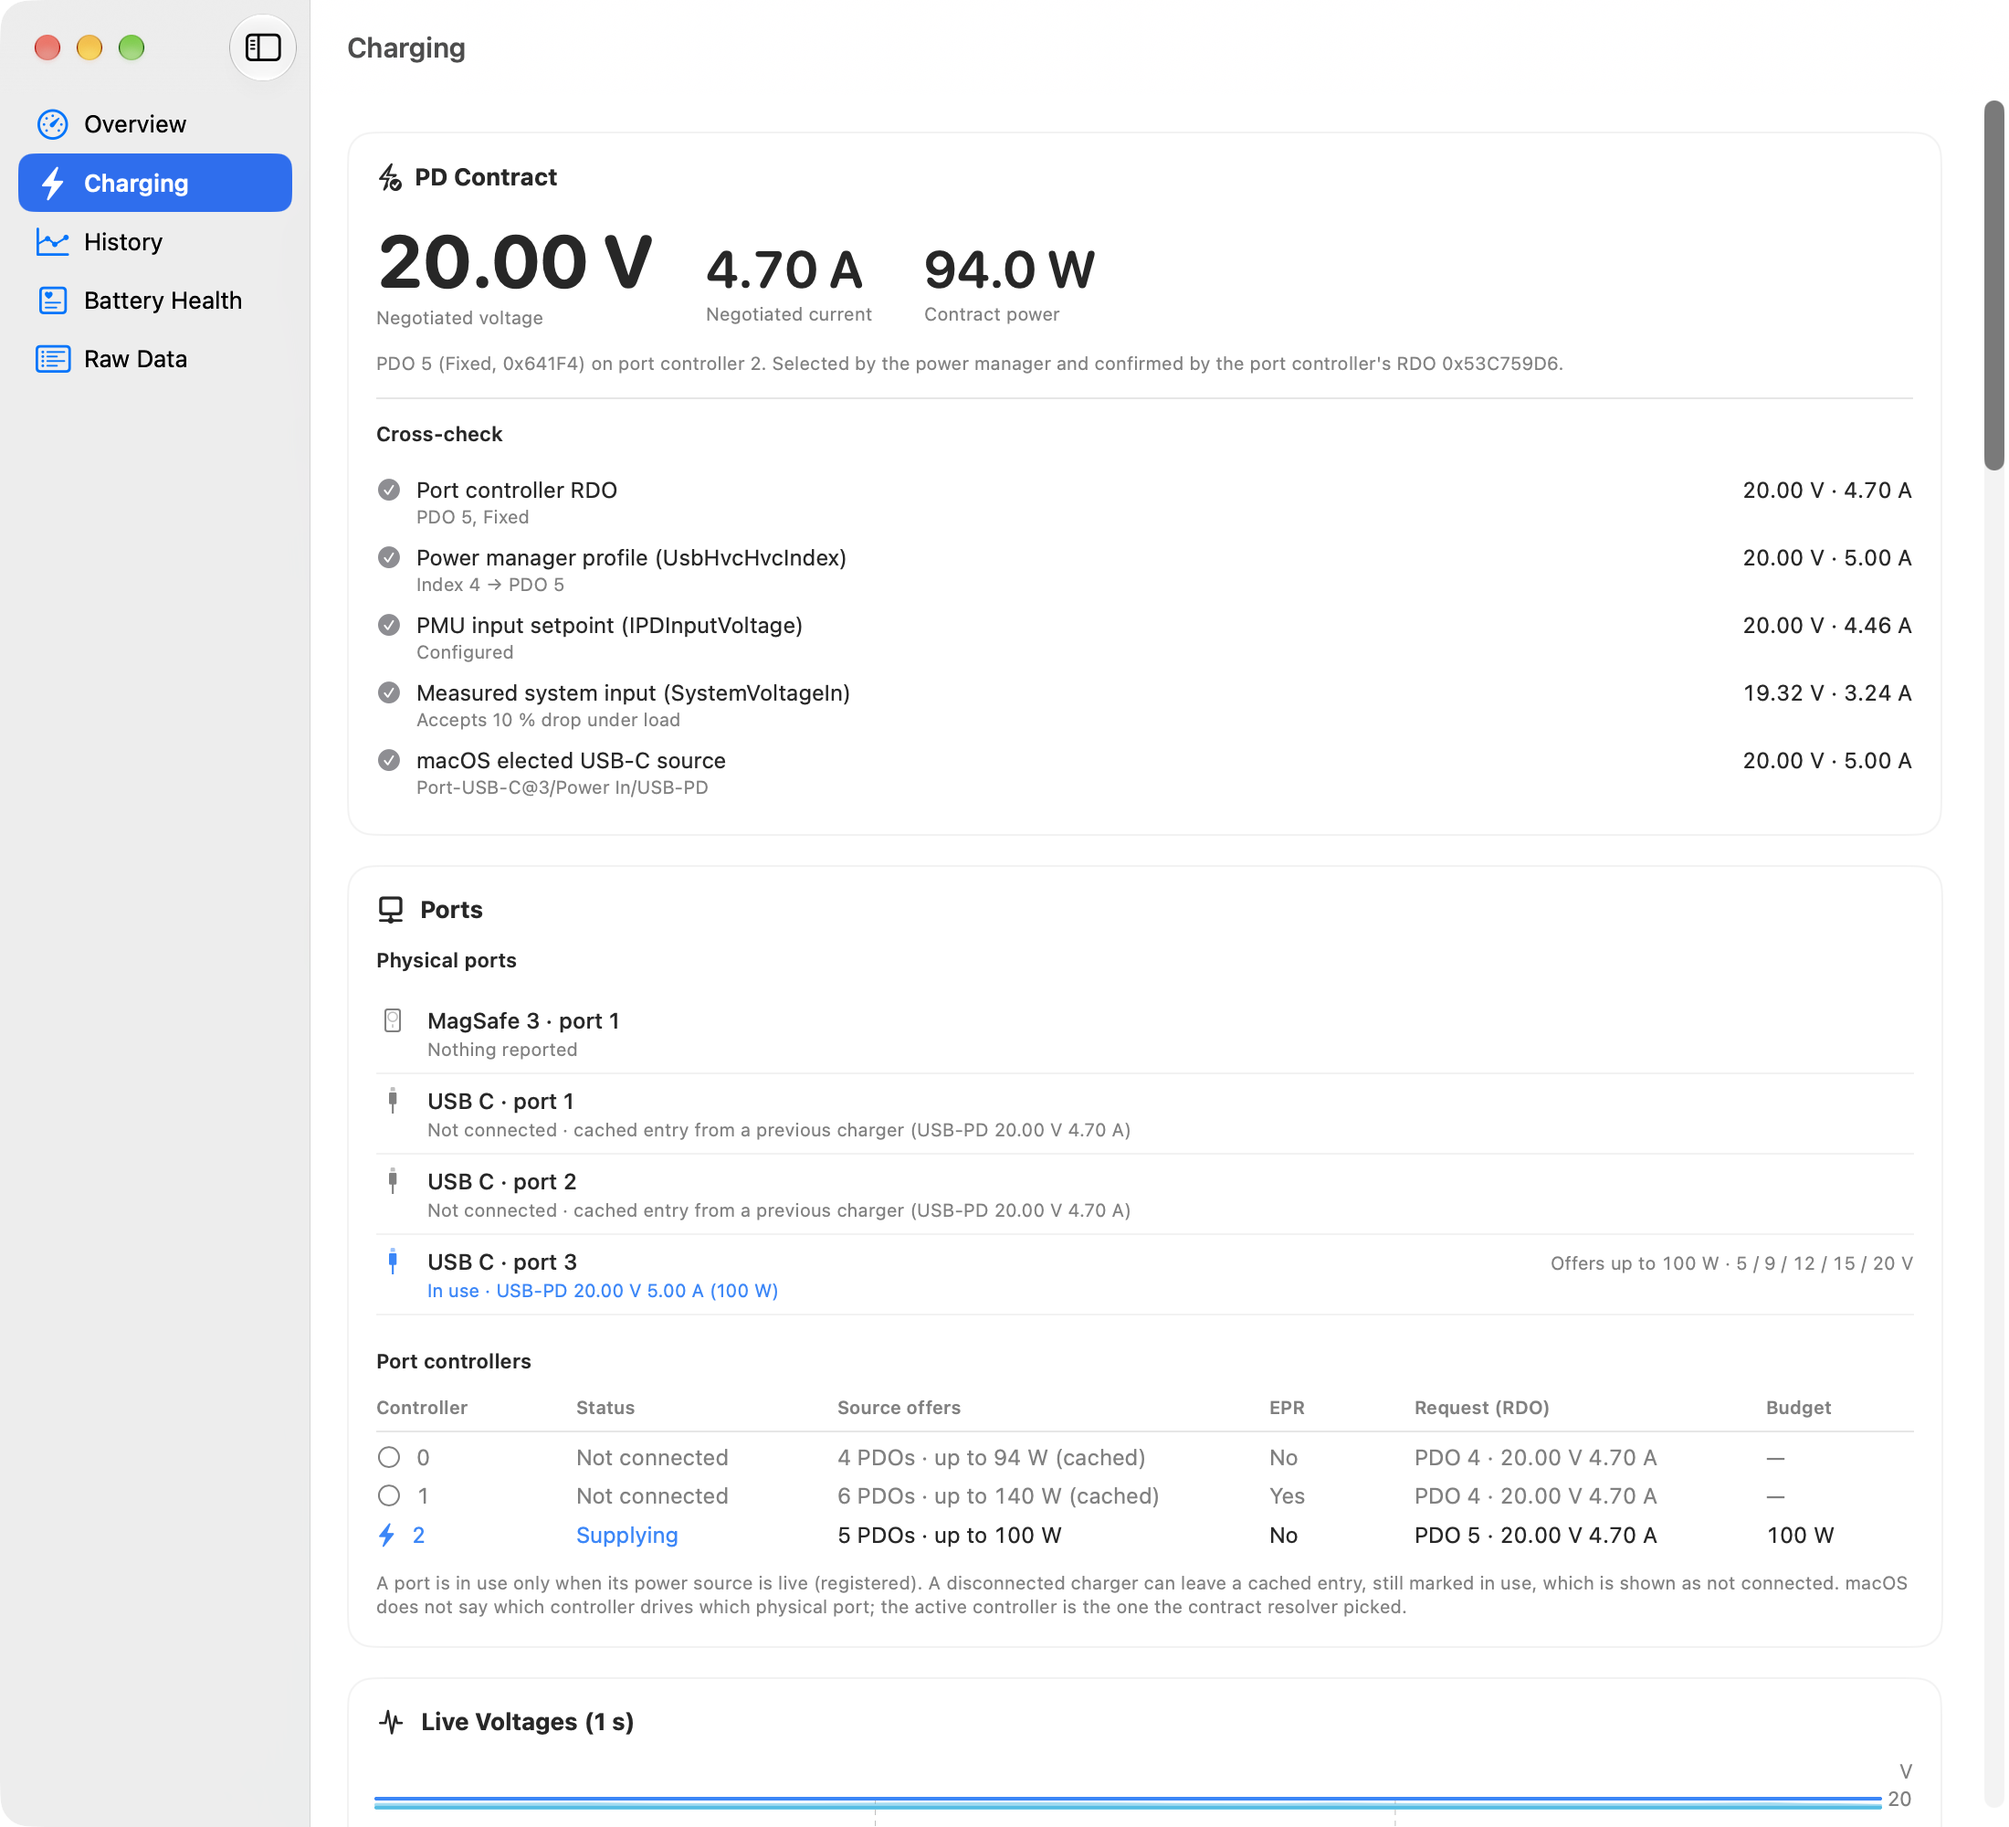
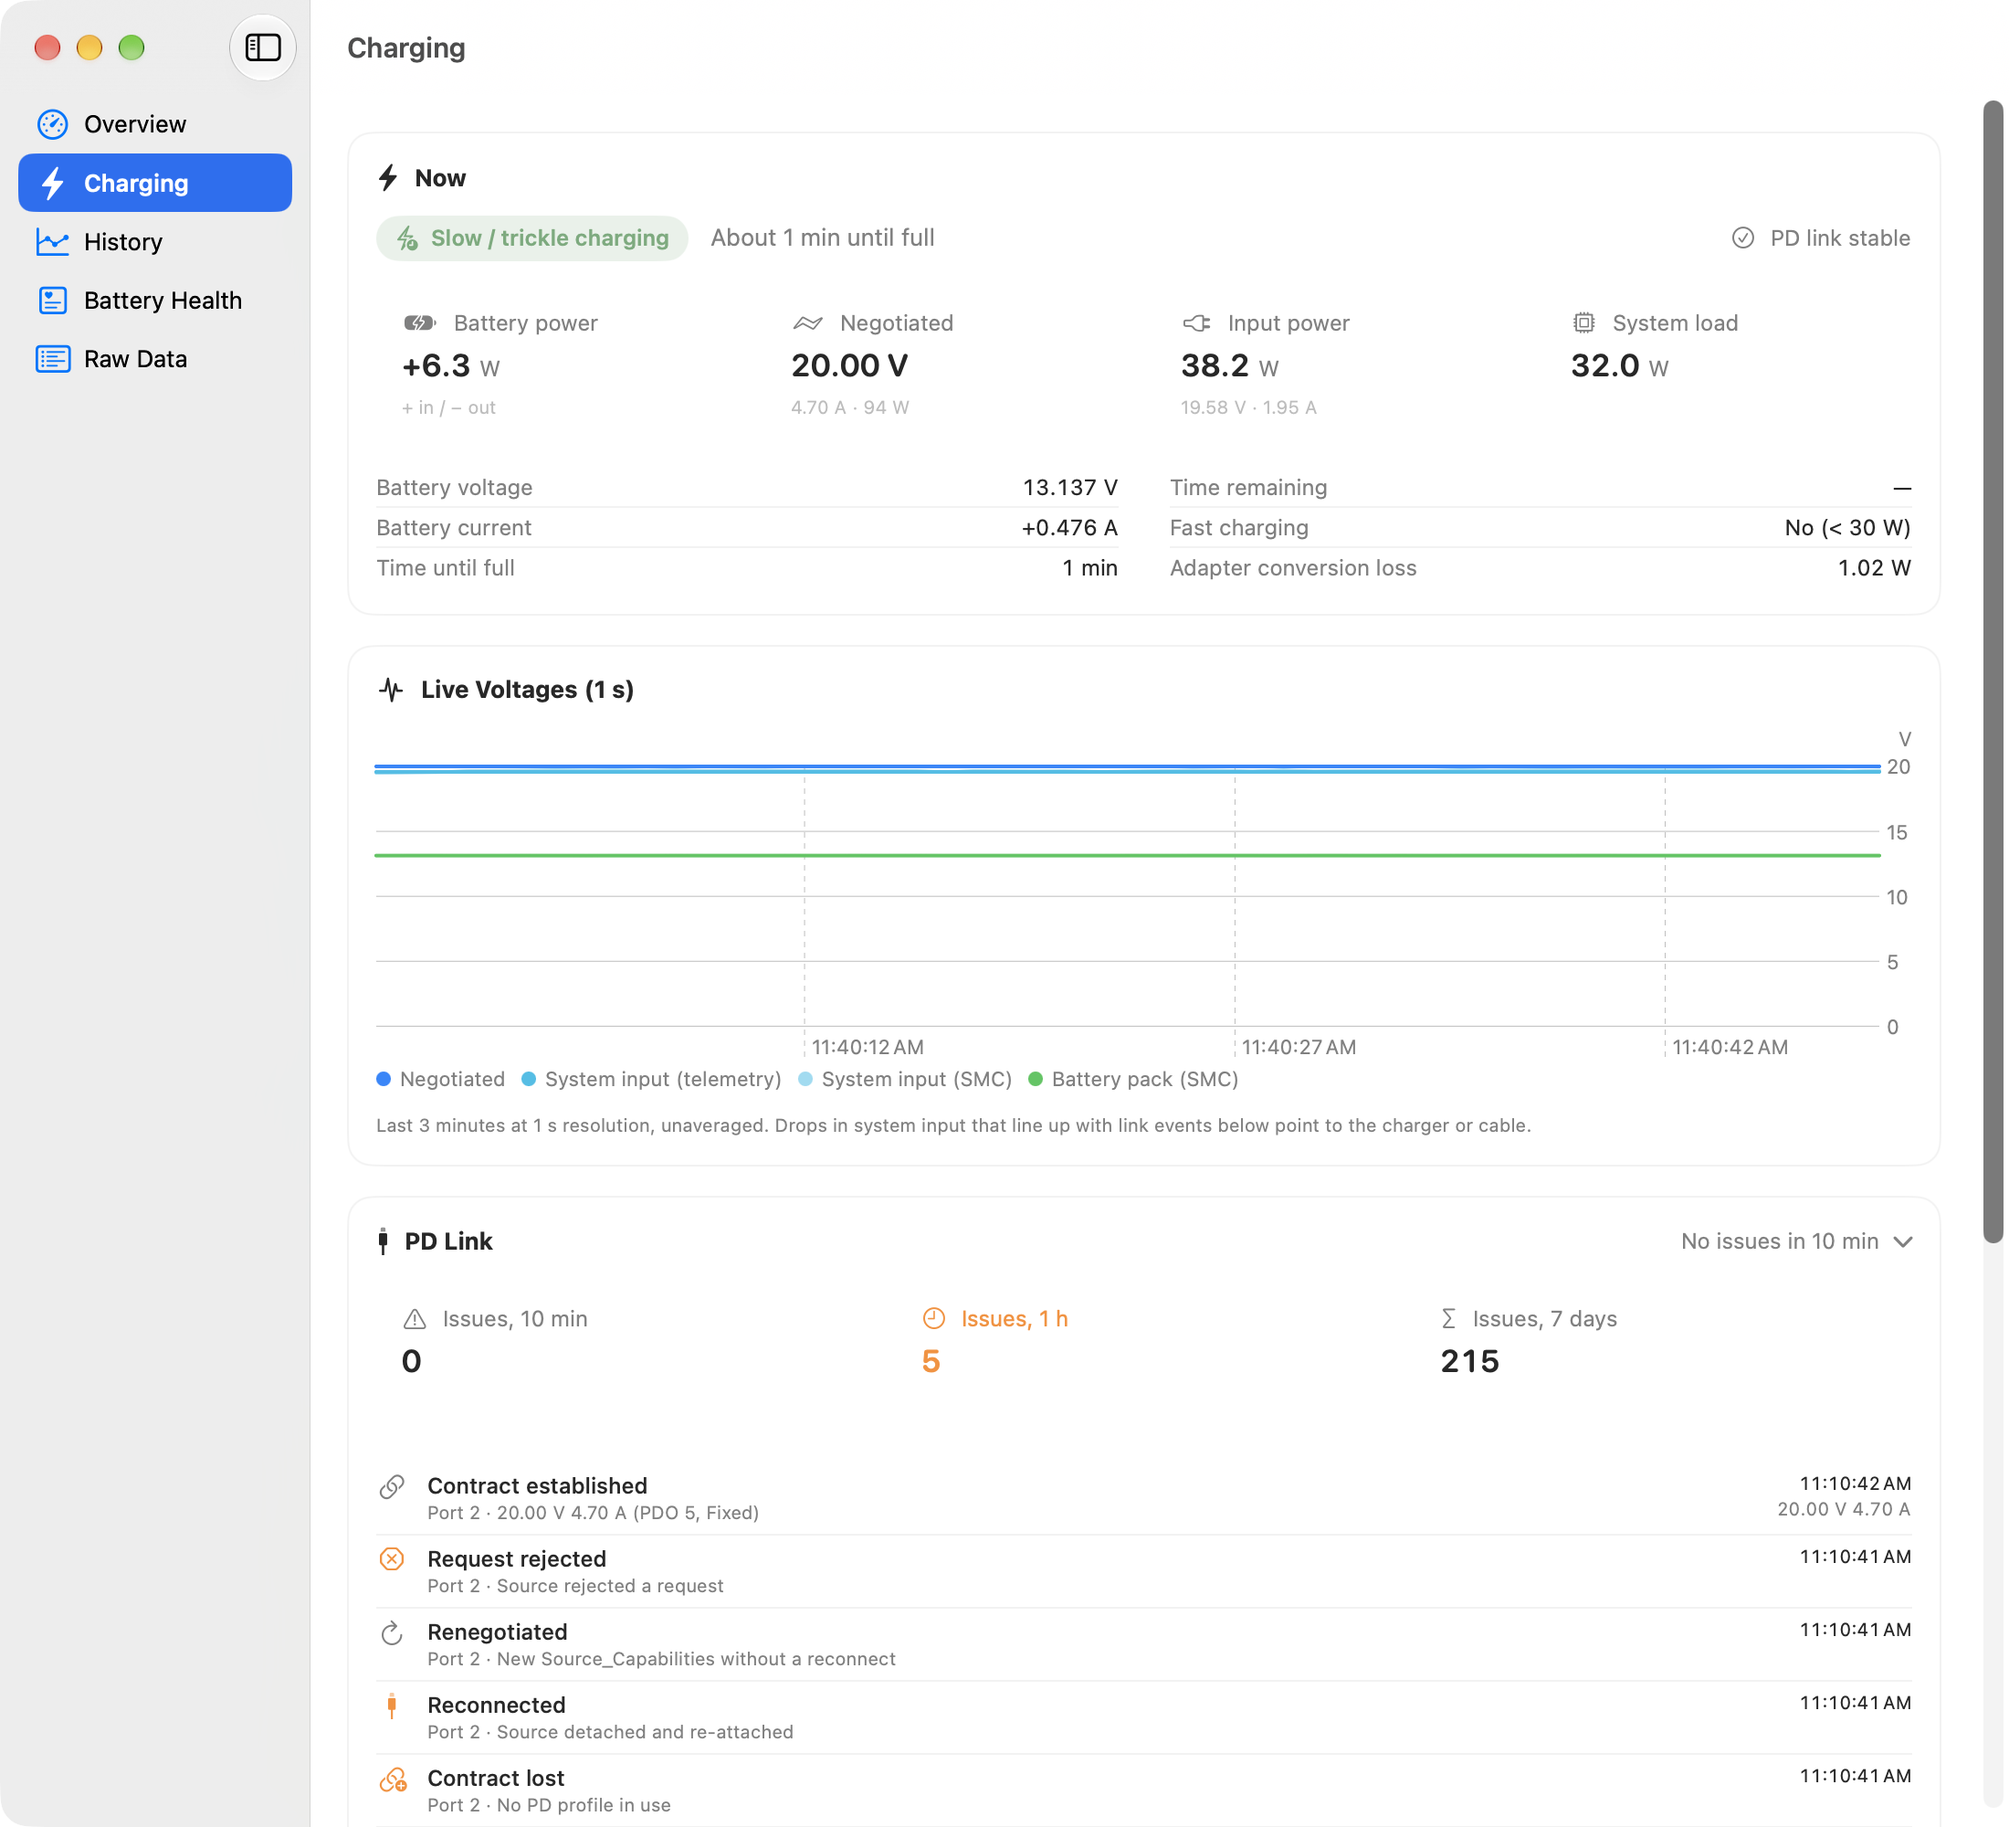
Release 1.1.0
Bumps the version, adds release notes, updates the README and retakes the charging screenshots.

diff --git a/README.md b/README.md
@@ -12,7 +12,7 @@
 ![USB PD](https://img.shields.io/badge/USB%20PD-3.1%20%C2%B7%20EPR-34C759)
 ![macOS](https://img.shields.io/badge/macOS-15%2B-000000?logo=apple&logoColor=white)
 ![Xcode](https://img.shields.io/badge/Xcode-27-1575F9?logo=xcode&logoColor=white)
-![Version](https://img.shields.io/badge/version-1.0.1-0A84FF)
+![Version](https://img.shields.io/badge/version-1.1.0-0A84FF)
 [![Tests](https://github.com/AndyUneducated/PowerScope/actions/workflows/ci.yml/badge.svg)](https://github.com/AndyUneducated/PowerScope/actions/workflows/ci.yml)
 
 <img src="docs/screenshots/overview.png" width="760" alt="Overview">
@@ -31,12 +31,13 @@
 - 🏷 **Identity**: serial, gauge chip, cell vendor, manufacture code, chemistry ID, gauge firmware
 
 ### 🔌 Charging and USB-C PD
+- 🧭 **Ordered by what you check most**: Now, live voltages and PD link come first; charger, cross-check, consistency checks, ports, voltage sources and raw codes are collapsible, show a one-line status when collapsed, and remember whether they are open
 - 🤝 **Negotiated contract**: the PDO actually in use (Fixed, PPS, AVS, including EPR 28 V), with voltage, current and power
 - 🧮 **Source capabilities**: every PDO the charger offers, decoded per USB PD 3.1, with source flags
 - ✅ **Cross-check**: the contract is compared with four other places macOS reports it
 - 📡 **Voltage sources**: every voltage labeled as measured, setpoint or derived, with where it comes from
 - 🩺 **Consistency checks**: pack vs cells, gauge vs SMC, telemetry vs SMC, input stability, link stability, data freshness
-- 🔗 **PD link health**: reconnects, hard resets, renegotiations and rejected requests, logged even between samples
+- 🔗 **PD link health**: reconnects, hard resets, renegotiations and rejected requests, logged even between samples; **Clear** resets the issue counts and timeline (the chip's own totals become a baseline, since they cannot be reset)
 - 🔌 **Ports**: every physical USB-C and MagSafe input with the charger actually connected, and every port controller with what its source offers, EPR support, request and power budget; cached entries from a disconnected charger are shown as not connected
 - 🚀 **Fast charging**: judged by measured battery power (≥ 30 W), not by the `IsCharging` flag
 
@@ -56,11 +57,11 @@
 
 ## 📸 Screenshots
 
-| Charging | Ports |
+| Charging: now, live voltages, PD link | Details collapsed with status summaries |
 | :---: | :---: |
-| <img src="docs/screenshots/charging.png" width="420"> | <img src="docs/screenshots/ports.png" width="420"> |
-| **Checks, link health and timeline** | **Raw data** |
-| <img src="docs/screenshots/charging-details.png" width="420"> | <img src="docs/screenshots/raw.png" width="420"> |
+| <img src="docs/screenshots/charging.png" width="420"> | <img src="docs/screenshots/charging-details.png" width="420"> |
+| **Ports** | **Raw data** |
+| <img src="docs/screenshots/ports.png" width="420"> | <img src="docs/screenshots/raw.png" width="420"> |
 | **Battery health** | **History** |
 | <img src="docs/screenshots/battery.png" width="420"> | <img src="docs/screenshots/history.png" width="420"> |
 | **Light mode** | **Menu bar** |
@@ -217,13 +218,14 @@ One rule, defined in `Theme.swift`: **a color says where energy flows and whethe
 ---
 
 ## 🧪 Tests
-53 Swift Testing tests in `PowerScopeTests/`, run on every push by [GitHub Actions](https://github.com/AndyUneducated/PowerScope/actions/workflows/ci.yml). They replay PD data captured from a real Mac with Apple's 140 W adapter over three cables:
+58 Swift Testing tests in `PowerScopeTests/`, run on every push by [GitHub Actions](https://github.com/AndyUneducated/PowerScope/actions/workflows/ci.yml). They replay PD data captured from a real Mac with Apple's 140 W adapter over three cables:
 - 🔬 **Decoding**: 60 W, 94 W and 140 W PDOs, EPR AVS, PPS, source flags, EPR positions, RDOs
 - 🧭 **Contract resolution**: stale RDO, RDO catching up, 5 V fallback, stale power budget, PMU vs selection, AVS, PPS, RDO-only
 - 🚨 **Event detection**: counter deltas, counter resets, new ports, contract transitions, current appearing, the 60 s fold window
 - ✅ **Cross-checks** for the EPR case
 - 💾 **Storage**: a first-release store opening with the current models (migration), and sample round trips
 - 📤 **CSV**: escaping, column values, empty unknowns, event ordering and quoting
+- 🧹 **Clearing issues**: counts since the clear, no baseline, controller resets after a clear
 - 🎨 **Color rules**: charging speed, battery thresholds, battery assisting, reading levels
 - 🔌 **Ports and stale data**: only live (registered) sources count as in use; controllers without an attached charger are never used for the contract, and there is no contract on battery
 - 📊 History downsampling, formatting and registry parsing
@@ -255,7 +257,7 @@ open /Applications/PowerScope.app
 - 🧭 `open PowerScope.app --args -page charging` opens a given page (`overview`, `charging`, `history`, `battery`, `raw`)
 
 ## 🚀 Releasing
-- 🏷 Versions follow [Semantic Versioning](https://semver.org); the current version is **1.0.1**
+- 🏷 Versions follow [Semantic Versioning](https://semver.org); the current version is **1.1.0**
 - 📝 Bump `MARKETING_VERSION` in the project and add notes in `docs/releases/vX.Y.Z.md`
 - 🔖 Push a tag `vX.Y.Z`: the [Release workflow](.github/workflows/release.yml) checks the tag matches the app version, runs the tests, builds the app and publishes `PowerScope-vX.Y.Z.zip` with its SHA-256
 
@@ -279,7 +281,7 @@ PowerScope/
 │   ├── PDEventDetector.swift    PD link events from counter deltas
 │   ├── PDState.swift            Port controllers, elected source, cross-checks
 │   └── SMC.swift                Read-only AppleSMC client
-└── Views/                       Pages, charts, menu bar panel, components
+└── Views/                       Pages (ChargingViews for the Charging page), charts, menu bar panel, components
 PowerScopeTests/                 Swift Testing suites
 docs/releases/                   Release notes, one file per version
 docs/screenshots/                Screenshots used in this README

diff --git a/docs/releases/v1.1.0.md b/docs/releases/v1.1.0.md
@@ -1,0 +1,25 @@
+## ⚡ PowerScope 1.1.0
+
+### 🧭 A reorganized Charging page
+- ⬆ **What you check most comes first**: a new **Now** card (charge state, battery power, negotiated contract, input power, system load, time to full, PD link status), then **Live Voltages**, then **PD Link**
+- 📁 **Details are collapsible**: Charger (with its PDOs), Contract Cross-check, Consistency Checks, Ports, Voltage Sources, and Charge Control and Raw Codes
+- 🏷 **Collapsed cards still tell you their state** in one line, such as "5 of 5 agree" or "6 passed · 1 skipped", and turn amber when something is off
+- 💾 **Open or closed is remembered** per card across launches; collapsed cards are not built at all
+- ✅ **Contract Cross-check** is now its own card and collapsed by default
+
+### 🧹 Clear PD issues
+- 🗑 **Clear…** in the PD Link card deletes the timeline and restarts the issue counts, after a confirmation
+- 📏 The chip's counters cannot be reset, so their values at the clear become a baseline; Controller counters show counts since the clear with the chip totals in brackets
+- 📈 History charts and CSV export of history are unaffected
+
+### ✨ Smaller changes
+- 🔇 The short event list skips "Monitoring started" markers; Show all still includes them
+- 🔤 Raw contract codes (RDO, PDO, basis) moved into Charge Control and Raw Codes
+
+### 🧪 Tests
+- 58 tests, including counter baselines across a clear and a controller reset
+
+### 📦 Install
+1. Download `PowerScope-v1.1.0.zip` and unzip it
+2. Move `PowerScope.app` to `/Applications`
+3. Clear the download quarantine once: `xattr -dr com.apple.quarantine /Applications/PowerScope.app`
